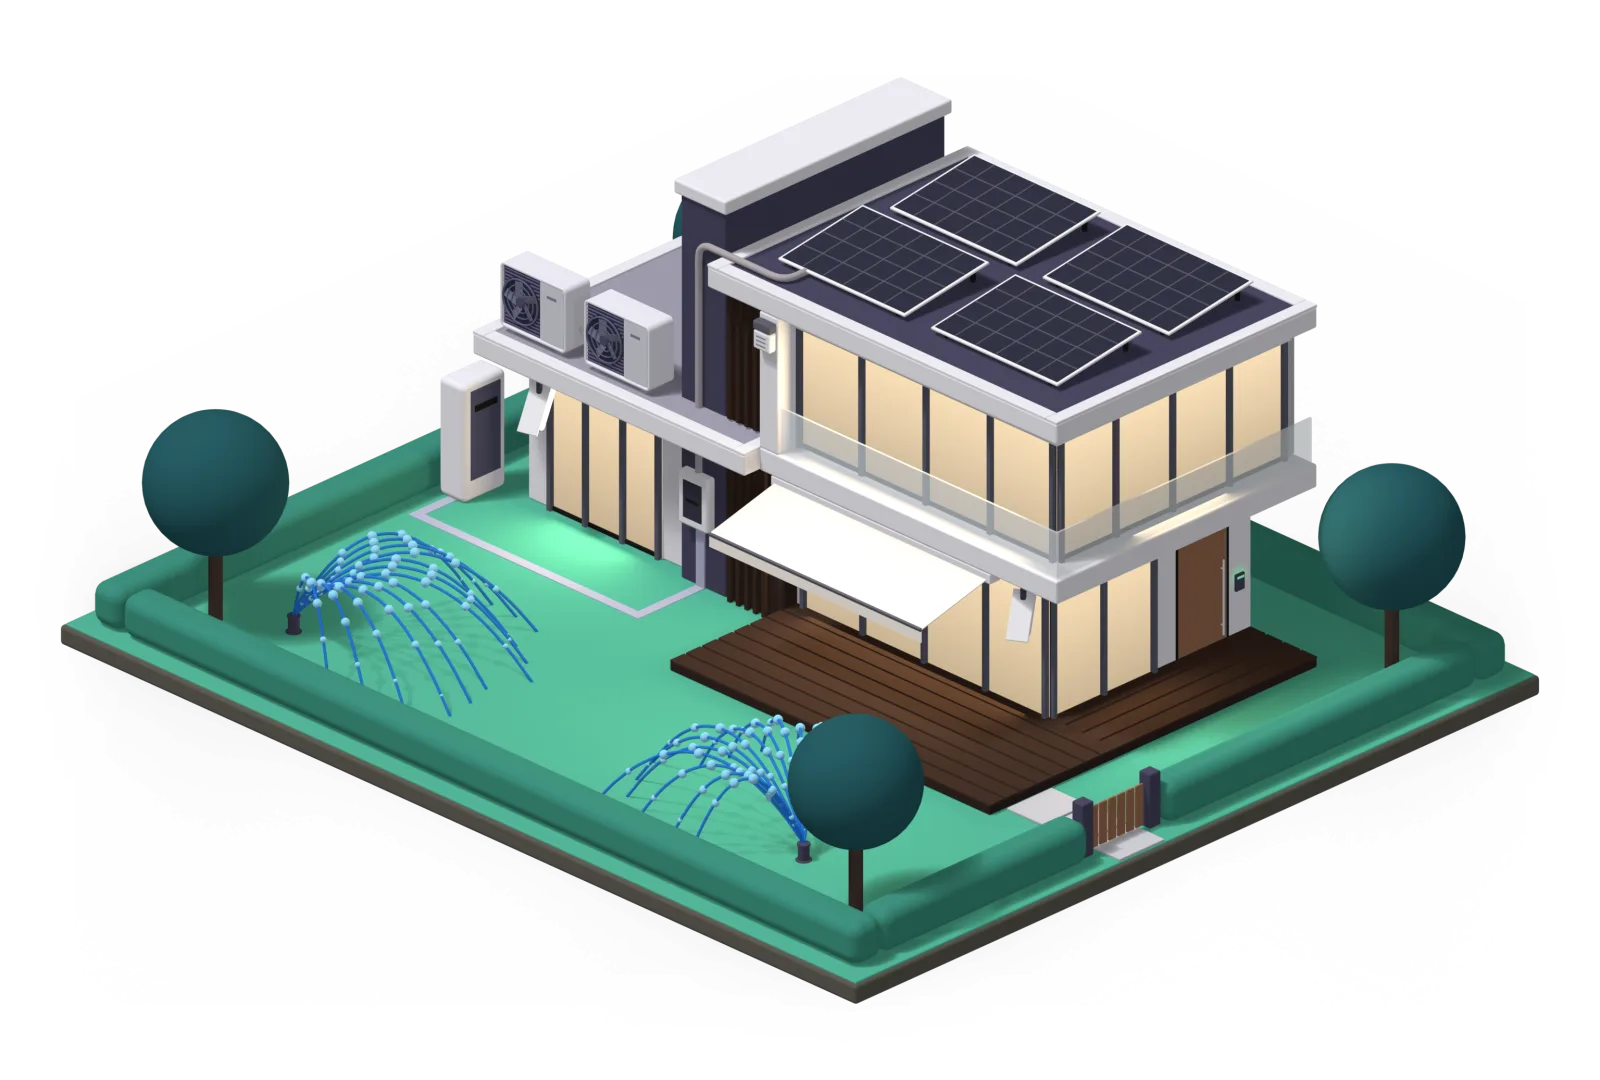
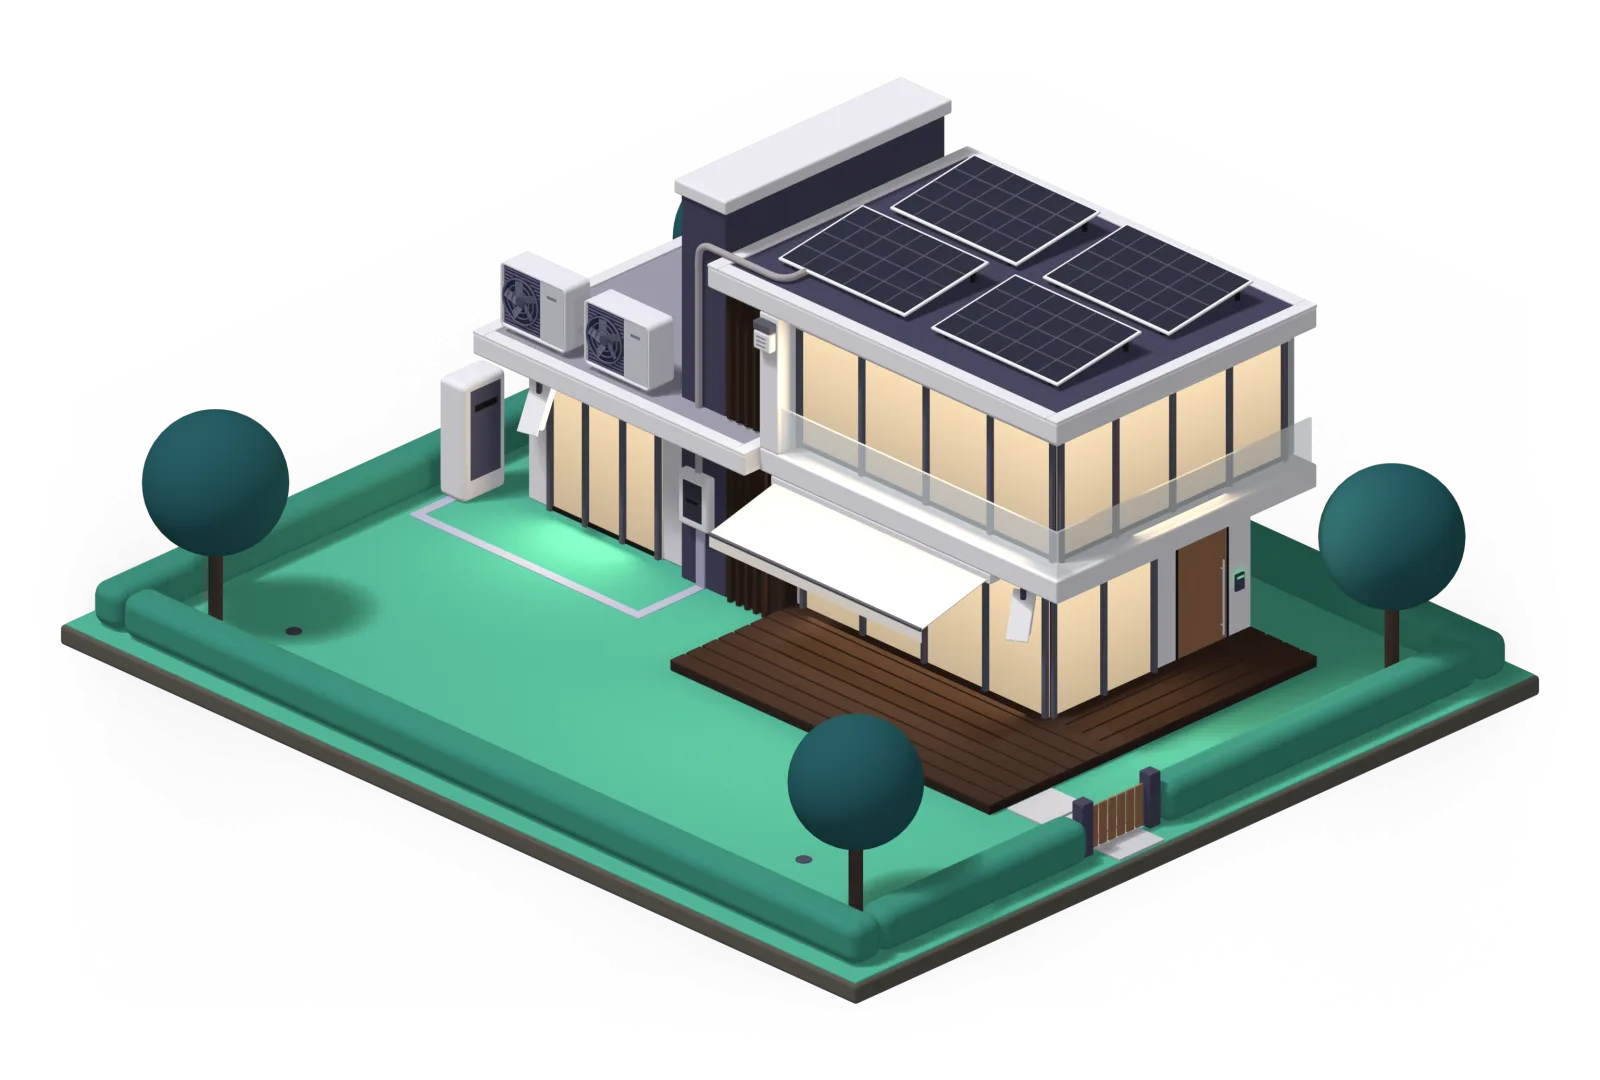
feat(home): renovated house without the irrigation running
Re-rendered with the brochure's tools/render_house.py and irrigation 0:
same camera and crop, so the period building still lines up. Only the
sprays differ from the brochure image. The alt text drops the
irrigation; app-assets.json notes that a sync brings it back.

Changed region(s): [[0.1562, 0.4889, 0.3438, 0.6417], [0.375, 0.6417, 0.5312, 0.7944]]

diff --git a/src/data/intro.ts b/src/data/intro.ts
@@ -98,7 +98,7 @@ export const retrofit = {
     {
       tag: 'Con ristrutturazione',
       src: '/assets/images/edificio-moderna.webp',
-      alt: 'Una casa moderna con luci, tenda e irrigazione accese',
+      alt: 'Una casa moderna con luci e tenda accese',
       title: '**Pianificata con te**, in ogni dettaglio.',
       body: 'Impianto progettato su misura durante la fase di ristrutturazione sulle tue esigenze.',
     },
